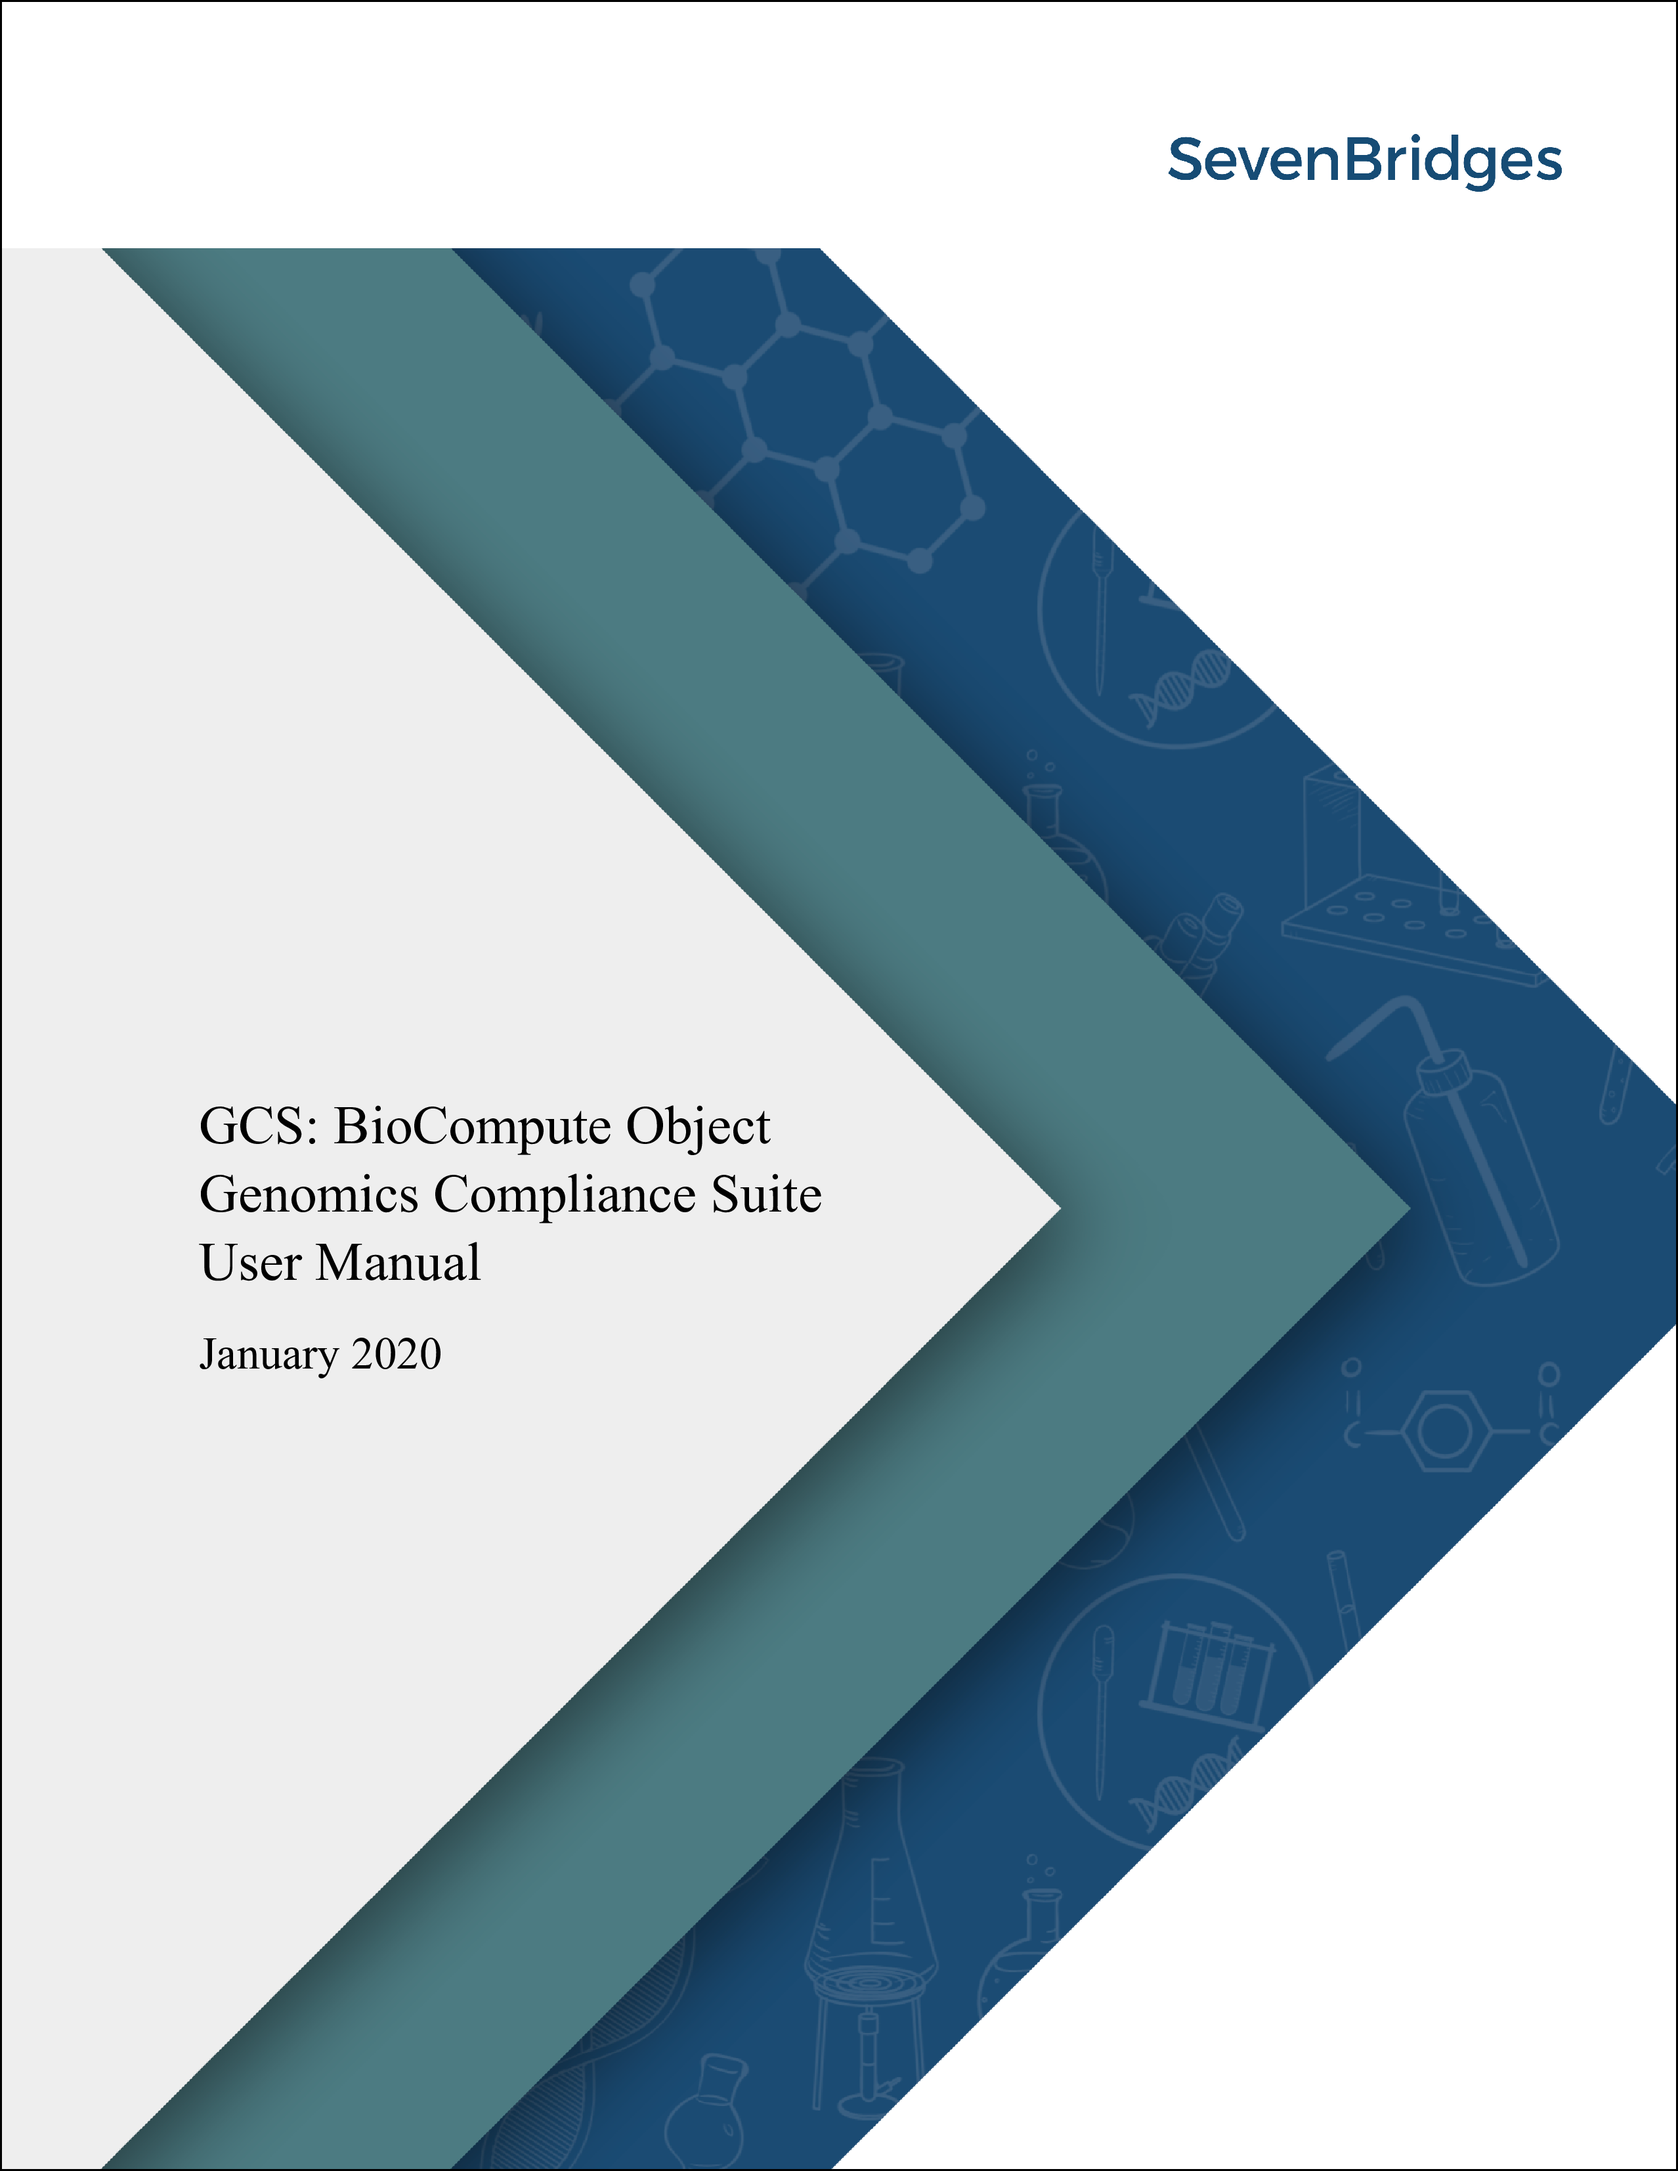
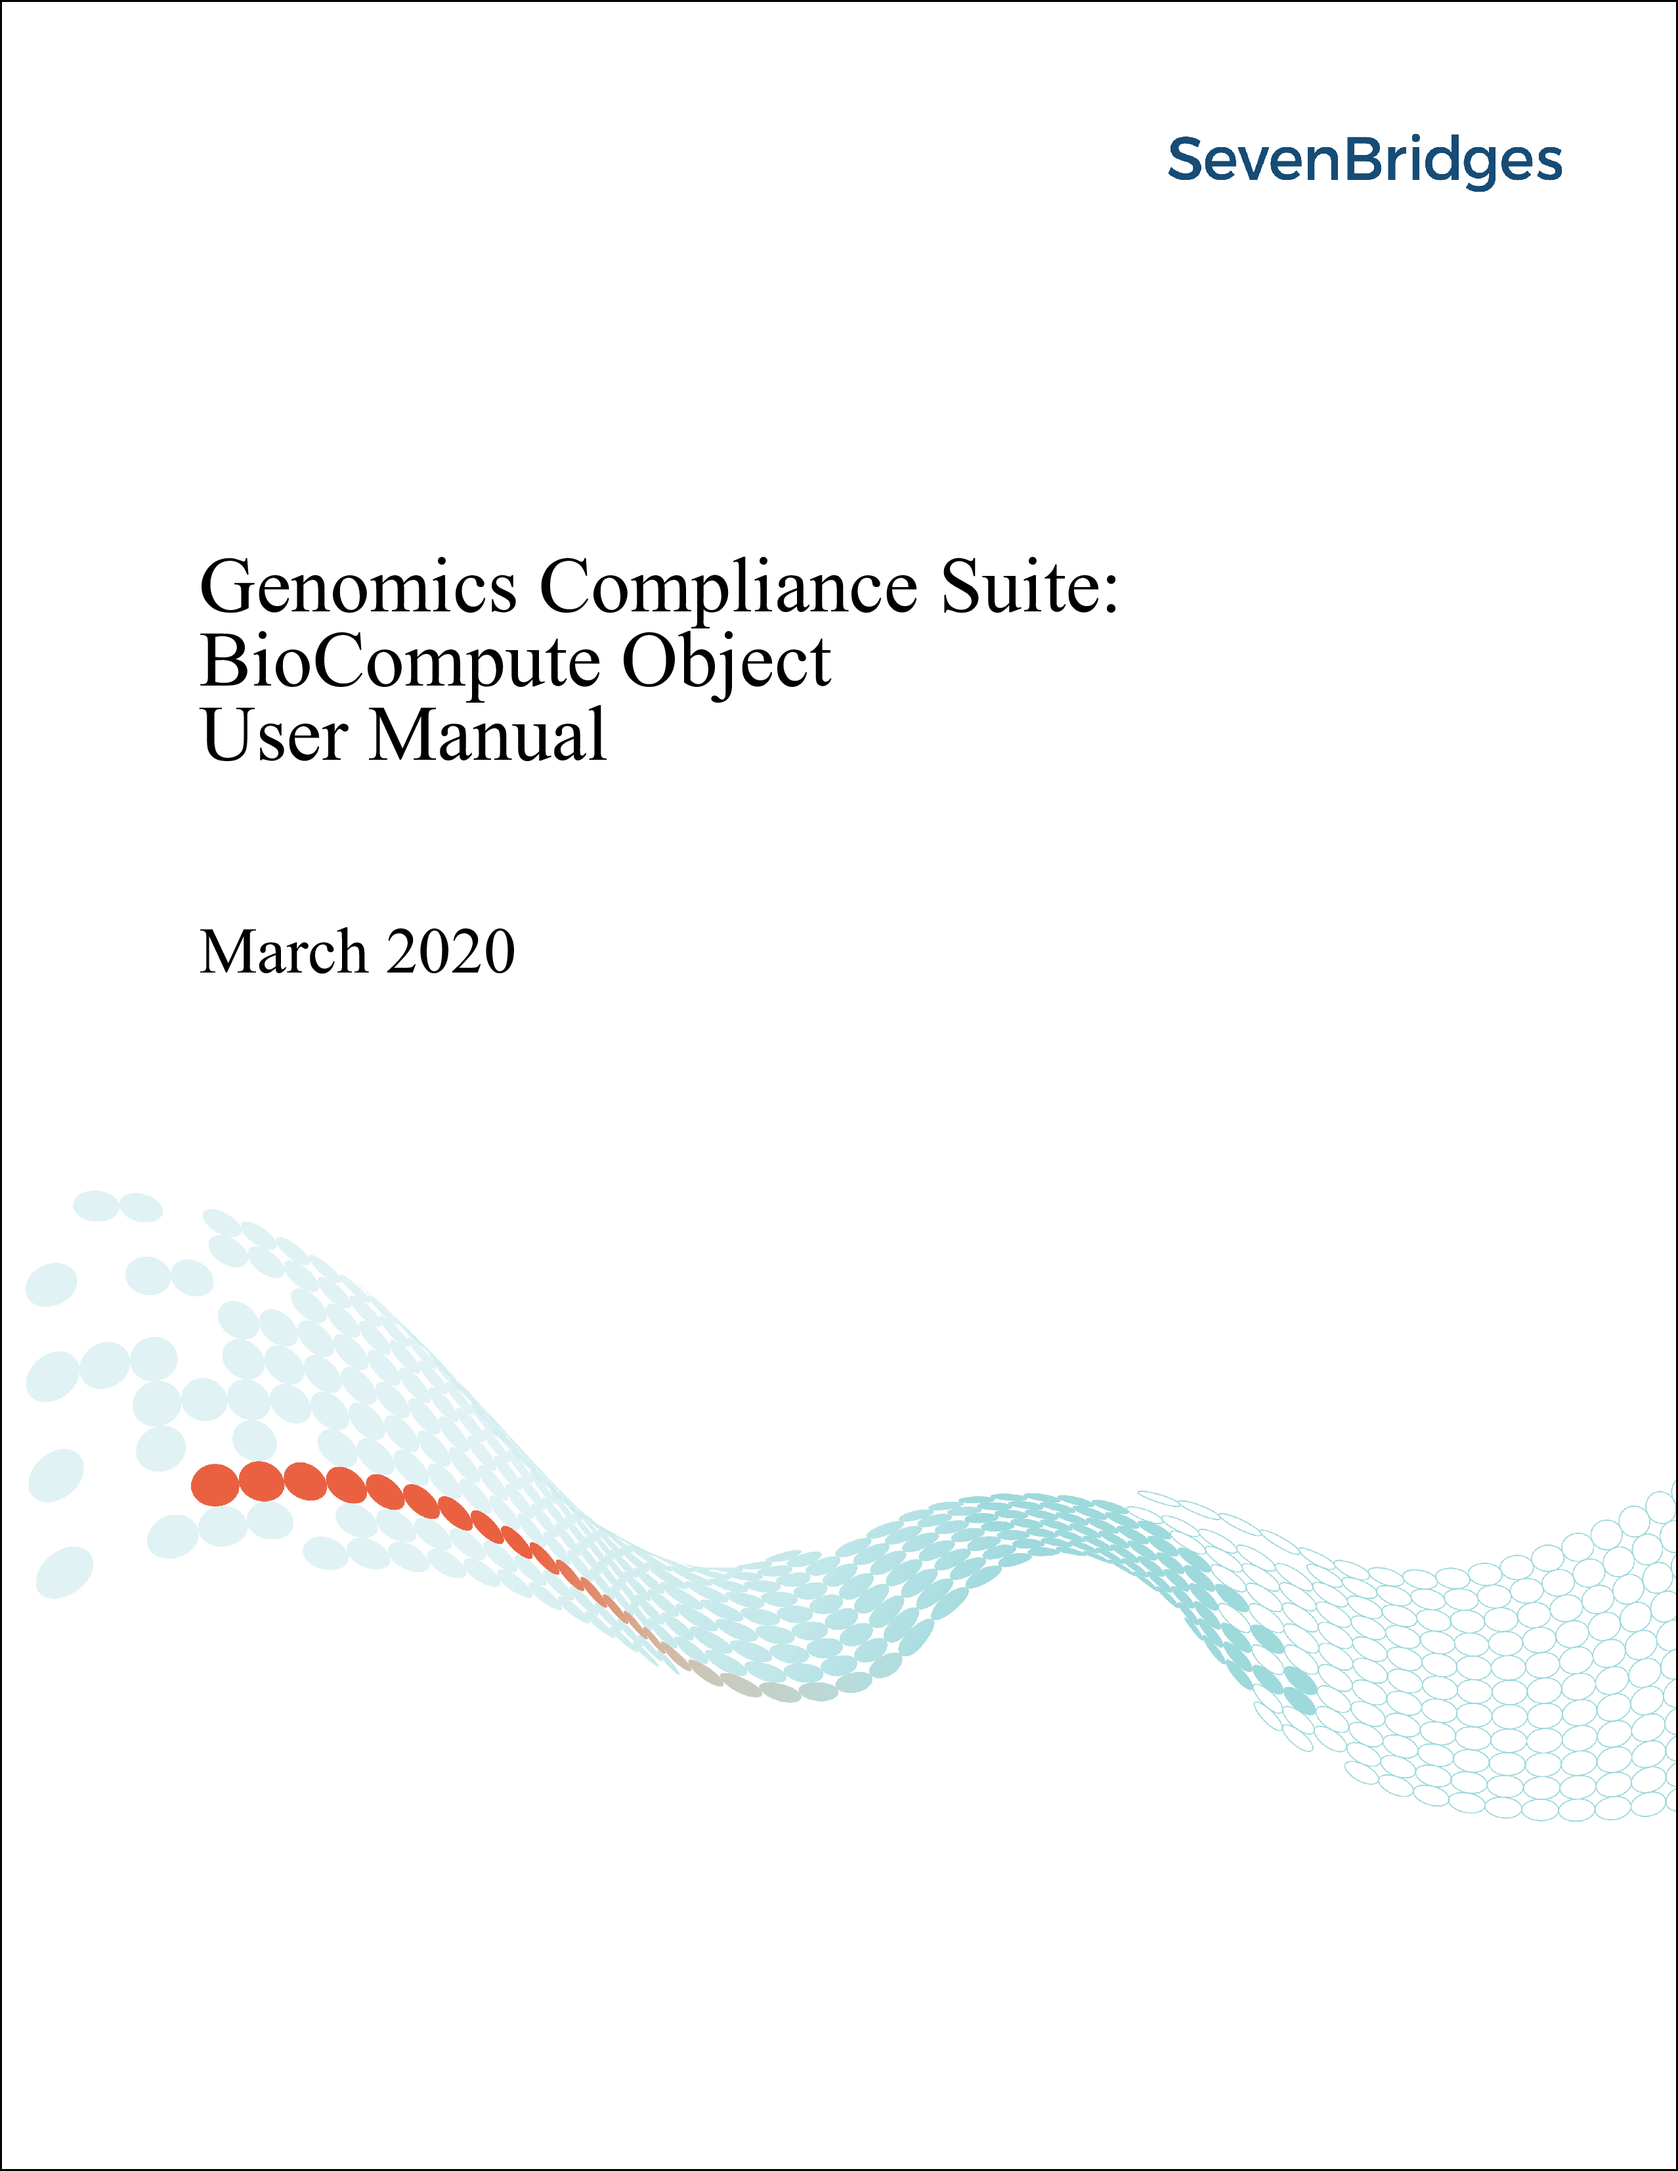
update cover page

diff --git a/docs-src/pdf/template.tex b/docs-src/pdf/template.tex
@@ -19,7 +19,8 @@ $endif$
 \usepackage{ifxetex,ifluatex}
 \usepackage[nottoc]{tocbibind}
 
-
+% more font sizes
+\usepackage{anyfontsize}
 
 % some more packages...
 \usepackage{graphicx}
@@ -261,15 +262,15 @@ $endfor$
     \end{figure}
 
     \phantom{}
-    \vspace{10cm}
+    \vspace{3cm}
 
-  \begin{minipage}{0.55\textwidth}
+  \begin{minipage}{\textwidth}
   \begin{flushleft}
-    \begin{singlespace}
-      \LARGE{$title$}
-    \end{singlespace}
-    \vspace{0.1in}
-    \Large{$month$}
+    {\fontsize{30}{34}\selectfont $title$}
+  \end{flushleft}
+    \vspace{0.6in}
+  \begin{flushleft}
+    \Huge{$month$}
   \end{flushleft}
   \end{minipage}
 
